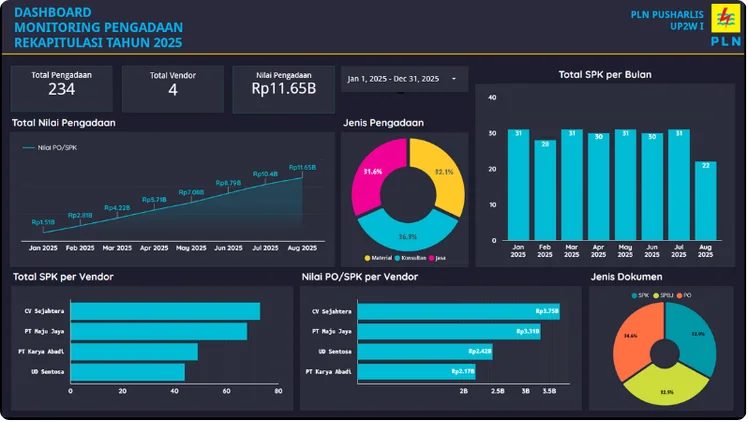
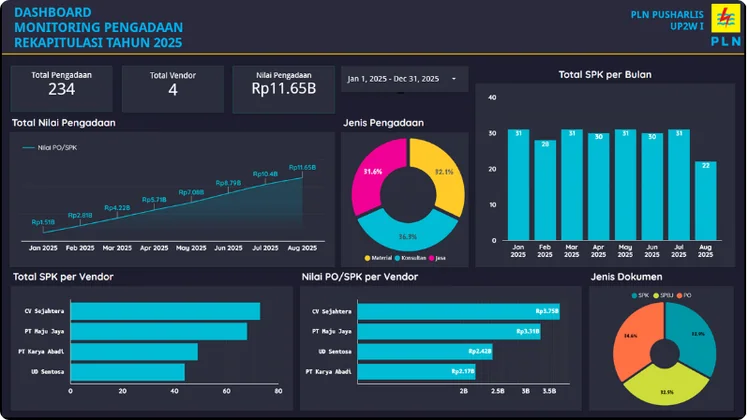
Remove the white edge and rounded-corner notches from the PLN dashboard captures
WHAT THE USER SAW
The four Looker Studio captures carry white that has nothing to do with the
dashboard, and it is invisible on a light page and obvious on the dark theme:

  · a white band along the bottom and the right edge — measured on the shipped
    file, the last two rows are 99.6% and 99.9% white and the last column 99.3%;
  · a white triangle in each of the four corners, left over from the rounded card
    the export was sitting on — 3-4px along the diagonal.

WHY THE EXISTING PIPELINE STEPS MISSED IT
`trimWhiteMargin` looks for whole rows and columns that are uniformly white — a
MARGIN. A rounded corner is a NOTCH, so no complete row or column ever qualifies
and the trim correctly left the image alone. The defect is real, small, and was
only visible where the surrounding page is dark.

THE FIX IS GEOMETRY, NOT COLOUR
This image legitimately contains interior white — text, table rules, chart labels
— so a colour knockout would punch holes straight through the dashboard, and a
"white connected to the edge" knockout is no safer because dashboard panels run to
the edge and would bleed inward.

Two steps instead, both of which cannot touch the interior:

  1. SHAVE THE BANDS. A row or column is only trimmed when more than 90% of it is
     white. Interior white never fills an entire row, so it can never trigger a
     shave — 2px came off the bottom and 1px off the right, and the top and left
     (under 1% white) were correctly left alone.
[…]

diff --git a/src/data/asset-dims.generated.ts b/src/data/asset-dims.generated.ts
@@ -16,10 +16,10 @@ export const imageDims: Record<string, [number, number]> = {
   '/images/about/beautylab-system.webp': [1400, 788],
   '/images/projects/marketing-sheet-1.webp': [1700, 956],
   '/images/projects/marketing-script-1.webp': [1500, 844],
-  '/images/projects/pln-dashboard-1.webp': [748, 422],
-  '/images/projects/pln-dashboard-2.webp': [748, 422],
-  '/images/projects/pln-dashboard-3.webp': [748, 422],
-  '/images/projects/pln-dashboard-4.webp': [748, 422],
+  '/images/projects/pln-dashboard-1.webp': [747, 420],
+  '/images/projects/pln-dashboard-2.webp': [747, 420],
+  '/images/projects/pln-dashboard-3.webp': [747, 420],
+  '/images/projects/pln-dashboard-4.webp': [747, 420],
   '/images/projects/smart-farming-article.webp': [1200, 1635],
   '/images/projects/guzelev-1.webp': [471, 972],
   '/images/projects/guzelev-2.webp': [471, 972],
